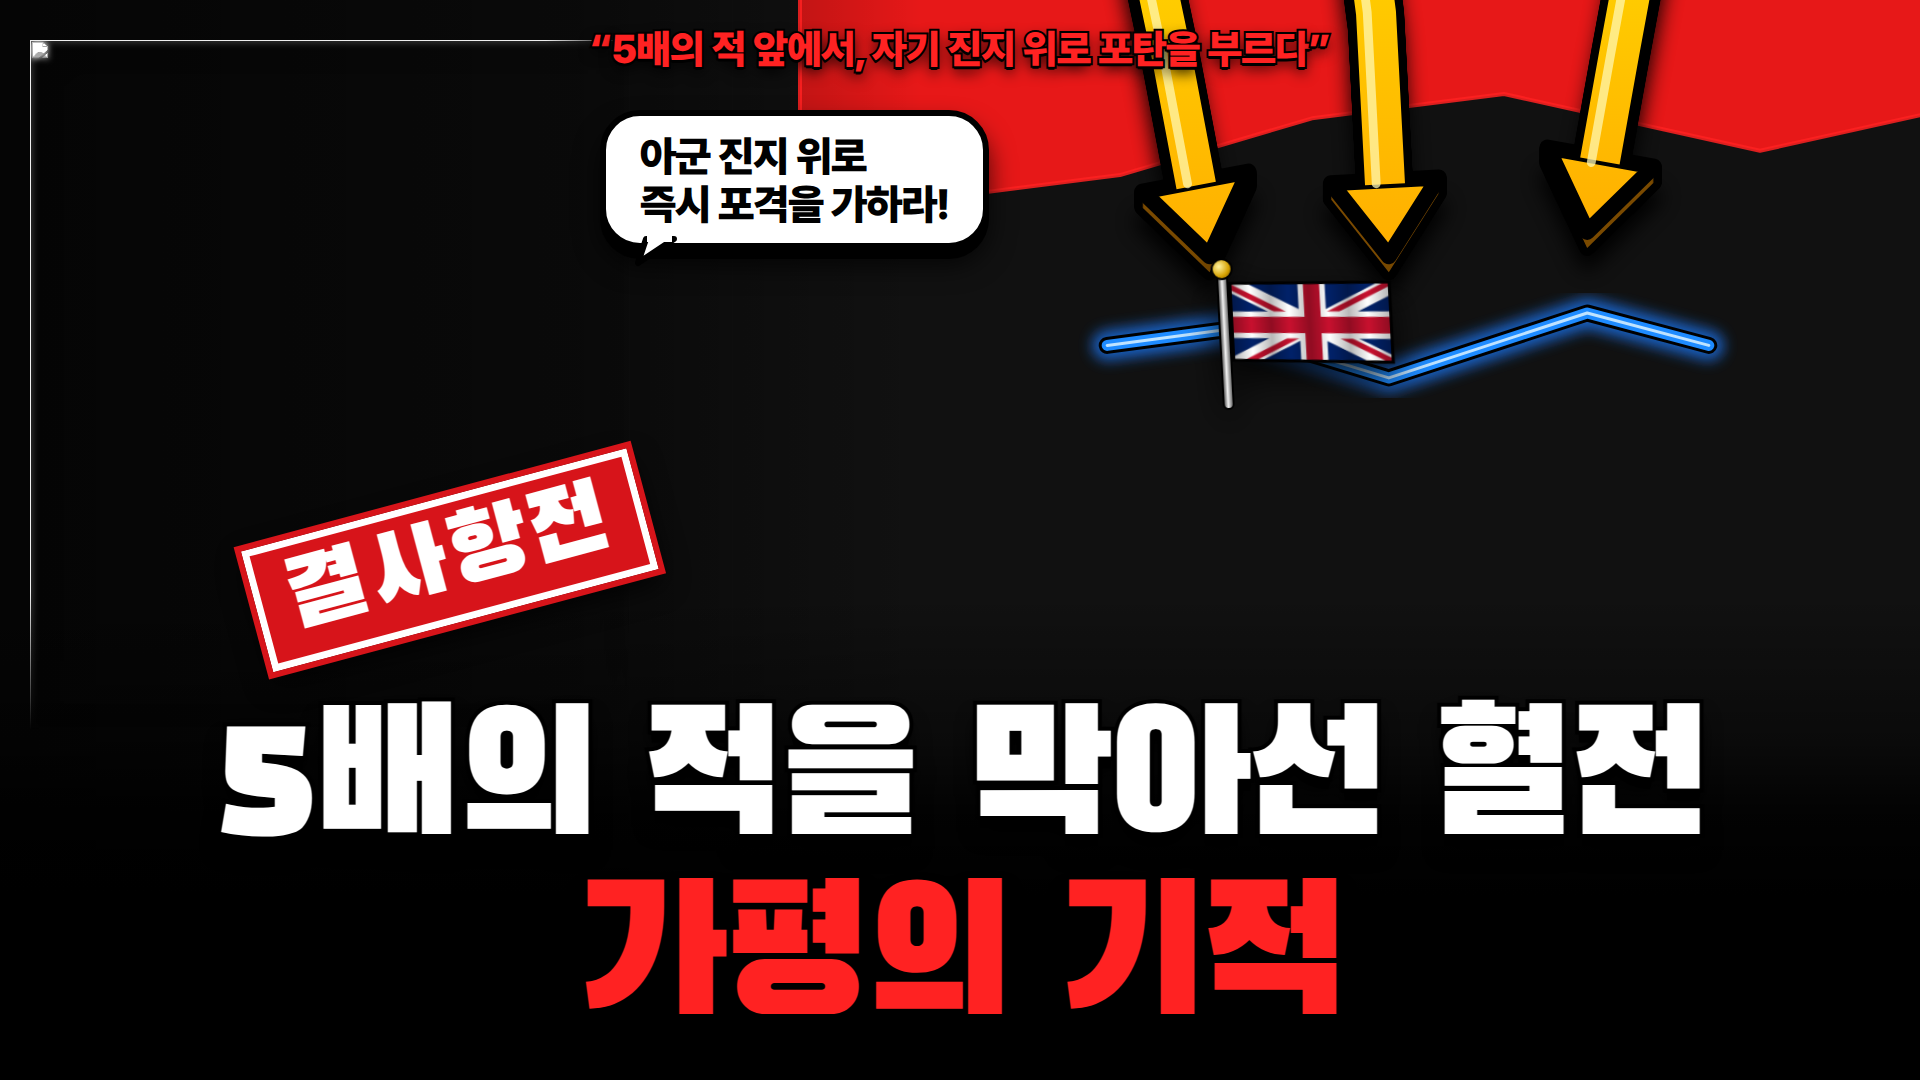
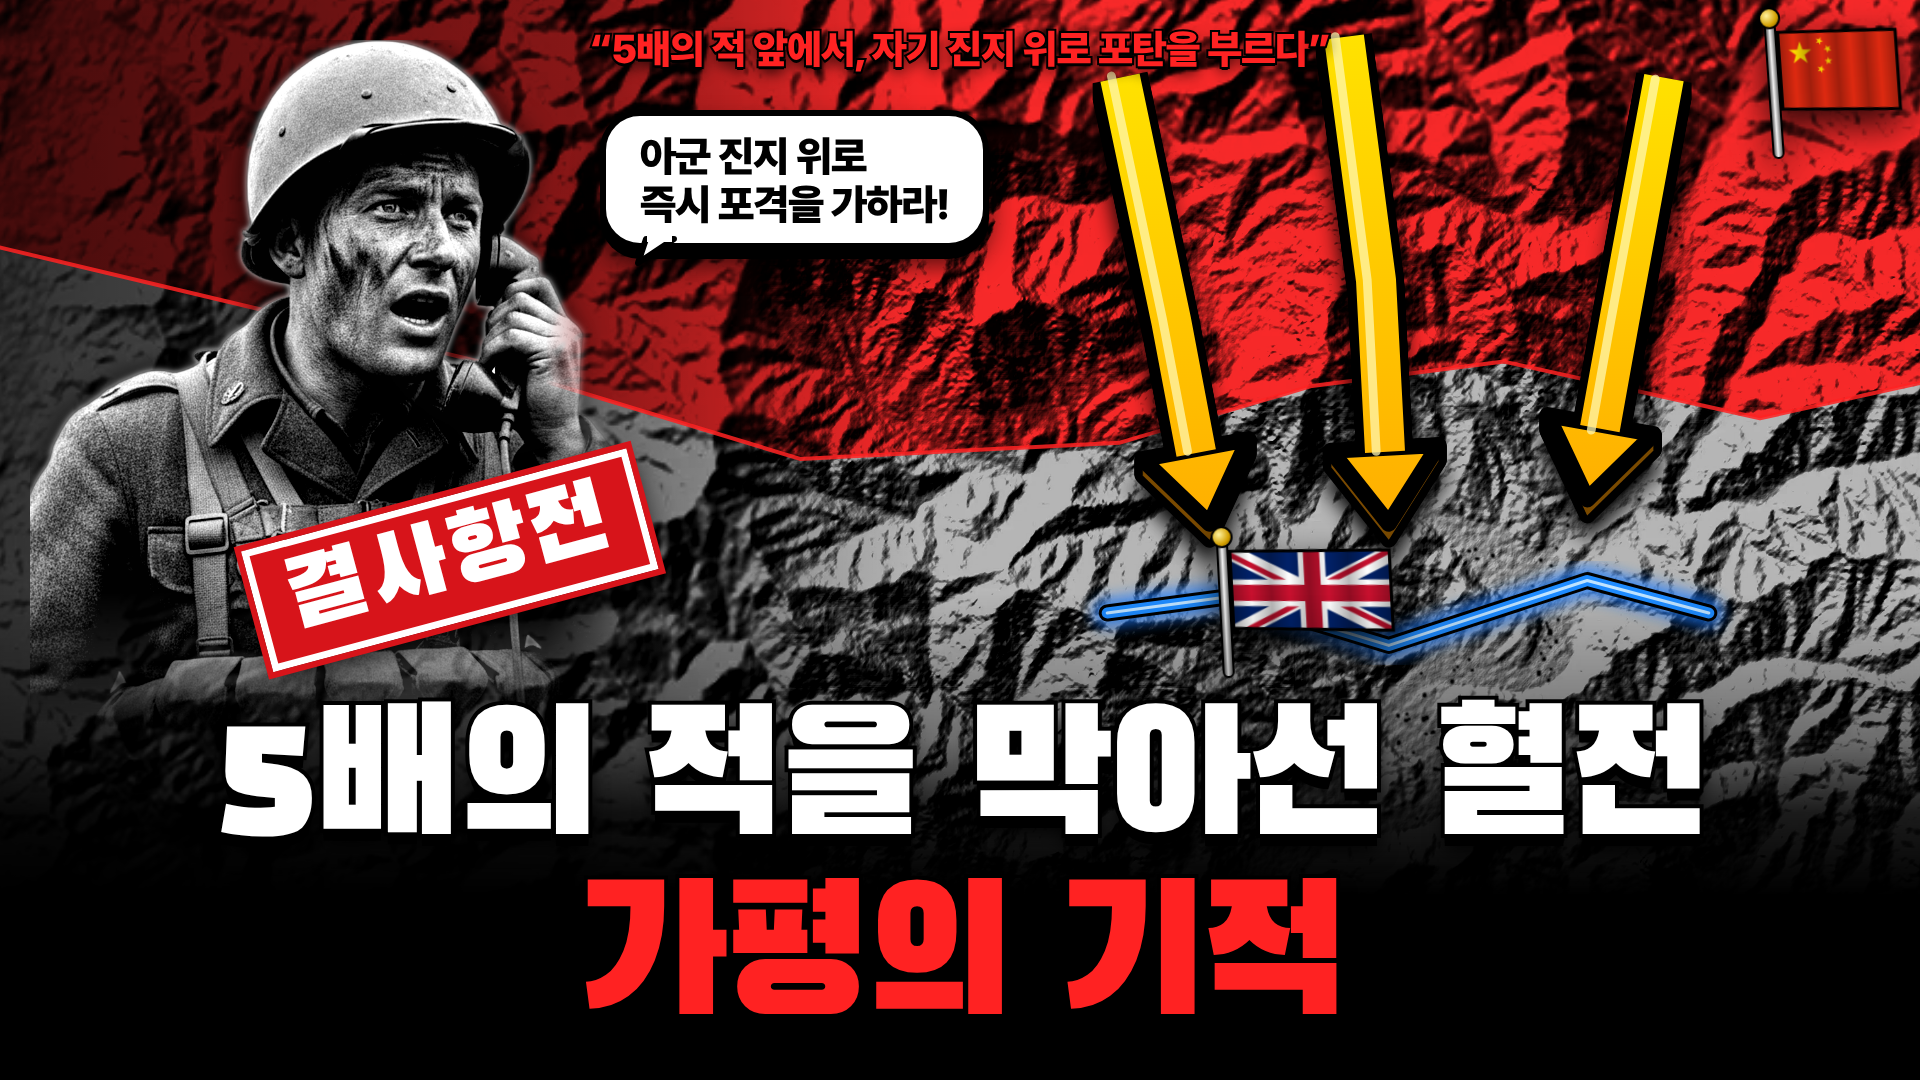
EP21 썸네일 확정(COLLAGE · 지도 위치·깃발 조정, thumbc 지형 추가) · 렌더 실측 기록
Claude-Session: https://claude.ai/code/session_01SkesRSgezbevFjjrrpjG1u

diff --git a/remotion/Thumbnail.tsx b/remotion/Thumbnail.tsx
@@ -203,15 +203,15 @@ export const COLLAGE: Record<string, CollageDef> = {
   // EP21 가평 전투 — 사용자 지시서: Line1 108px 흰색 / Line2 112px #FF2222, 말풍선·직인 지정 문구
   "ep21-gapyeong": {
     quote: "5배의 적 앞에서, 자기 진지 위로 포탄을 부르다",
-    person: { src: "ep/ep21-gapyeong/ai/thumb_cut.png", h: 690, w: 600, pos: "45% 0%" },
+    person: { src: "ep/ep21-gapyeong/ai/thumb_subject.png", h: 690, w: 600, pos: "45% 0%" },
     bubble: { text: "아군 진지 위로\n즉시 포격을 가하라!", x: 600, y: 110, tail: [0, 0], size: 42, tailStyle: "short" },
     stamp: { text: "결사항전", x: 450, y: 560, rot: -15 },
     map: {
       rasters: ["detail", "gapyeong_zoom"],
-      view: { center: [127.455, 37.86], span: 0.3 },
+      view: { center: [127.455, 37.893], span: 0.3 },
       outline: true,
       // 붉은 영역 = 가평천 북쪽 중공군 제118사단 접근 지역 (개략) / 푸른 선 = 677고지–가평천–504고지 영연방 방어선 (개략)
-      red: [[127.43, 37.9], [127.48, 37.905], [127.51, 37.912], [127.54, 37.915], [127.58, 37.908], [127.62, 37.915], [127.62, 38.0], [127.43, 38.0]],
+      red: [[127.3, 37.93], [127.38, 37.915], [127.43, 37.903], [127.48, 37.905], [127.51, 37.912], [127.54, 37.915], [127.58, 37.908], [127.62, 37.915], [127.62, 38.0], [127.3, 38.0]],
       blue: [[127.478, 37.884], [127.497, 37.886], [127.522, 37.88], [127.553, 37.888], [127.572, 37.884]],
       arrows: [
         [[127.48, 37.95], [127.488, 37.92], [127.494, 37.895]],
@@ -220,7 +220,7 @@ export const COLLAGE: Record<string, CollageDef> = {
       ],
       arrowW: 40,
       flags: [
-        { kind: "cn", at: [127.53, 37.955], h: 70, rot: -4 },
+        { kind: "cn", at: [127.583, 37.94], h: 80, rot: -4 },
         { kind: "uk", at: [127.497, 37.876], h: 80, rot: -3 },
       ],
     },

diff --git a/CLAUDE.md b/CLAUDE.md
@@ -44,7 +44,7 @@
 
 | 20 임진강(설마리) 전투 (1951) — 글로스터 대대 최후 항전 · 제1~7막 · **한국어 단일 · Minho** · 목표 20:30 | `ep20-imjin-river` | 8,909자 · 126장면 · target_sec 1230 (첫 미리보기 8,719자 = 19:59 → `s25b`·`s108b` 추가, 장면 번호 유지로 기존 TTS 재사용) | 20:25.1 · -15.2 LUFS · 1.26GB · 자막 286/286 · 싱크 ±1.0초 통과 | 없음 — 미드롤 `s37`·`s70`·`s107`. 지형 `imjin_w`(z12)·`gloster_zoom`(z14) 추가 — **z14 래스터는 뷰 span 0.1 이상**(0.06이면 2.7배 확대로 뭉개짐). 사진 15장 스카우트 핀(칸 중령·커티스 묘비·영국군 포로·설마리 전적비·75주년 추모식 등), 새 그림 47장. 썸네일 `COLLAGE["ep20-imjin-river"]` + **유니언 잭 깃발 `uk` 추가**, 인물은 AI 글로스터 베레모 병사(세션 rembg → `thumb_cut.png`) |
 
-| 21 가평 전투 (1951) — 영연방 제27여단 · 제1~7막 · **한국어 단일 · Minho · 쇼츠 제작 안 함(사용자 지시)** · 목표 20:30 | `ep21-gapyeong` | 9,017자(대본) · 122장면 · target_sec 1230 (첫 미리보기 8,789자 = 19:58 → `s25b`·`s74b`·`s115b` 추가, 장면 번호 유지) | (렌더 후 기록) | 없음 — 미드롤 `s36`·`s70`·`s104`(제3·5·7막 직전 암전). 구독 CTA 1 = 3막 끝 `cta` 장면 `s53`, 구독 CTA 2 = 7막 끝(EP22 포크찹 고지 예고 뒤). **새 기능: 장면 필드 `hudCta: {at, dur}`** → 오른쪽 위 전술 HUD 구독·좋아요 오버레이(`ui.tsx` `HudCta`, 4막 `s58` 지도 위). 지형 `gapyeong_zoom`(z14) 추가, 고지·하천 좌표는 개략. 스토리보드는 `make_board.py`가 script.md 문장을 순서대로 가져와 생성(자막 숫자 표기는 `SUBS` 표). 사진 17장 스카우트 핀 — ⚠ 핀이 빠진 사진 장면은 장면 id로 자동 검색돼 엉뚱한 사진(예: `s117` → STS-117 우주왕복선)이 들어옴. 사진 장면마다 핀 확인 필수. 계곡 규모 지도엔 손으로 그린 하천·도로 선 대신 실제 하천 데이터만 사용(어긋남 방지) |
+| 21 가평 전투 (1951) — 영연방 제27여단 · 제1~7막 · **한국어 단일 · Minho · 쇼츠 제작 안 함(사용자 지시)** · 목표 20:30 | `ep21-gapyeong` | 9,017자(대본) · 122장면 · target_sec 1230 (첫 미리보기 8,789자 = 19:58 → `s25b`·`s74b`·`s115b` 추가, 장면 번호 유지) | 20:28.1 · -15.2 LUFS · 1.27GB · 자막 260/260 · 싱크 ±1.0초 통과 | 없음 — 미드롤 `s36`·`s70`·`s104`(제3·5·7막 직전 암전). 구독 CTA 1 = 3막 끝 `cta` 장면 `s53`, 구독 CTA 2 = 7막 끝(EP22 포크찹 고지 예고 뒤). **새 기능: 장면 필드 `hudCta: {at, dur}`** → 오른쪽 위 전술 HUD 구독·좋아요 오버레이(`ui.tsx` `HudCta`, 4막 `s58` 지도 위). 지형 `gapyeong_zoom`(z14) 추가, 고지·하천 좌표는 개략. 스토리보드는 `make_board.py`가 script.md 문장을 순서대로 가져와 생성(자막 숫자 표기는 `SUBS` 표). 사진 17장 스카우트 핀 — ⚠ 핀이 빠진 사진 장면은 장면 id로 자동 검색돼 엉뚱한 사진(예: `s117` → STS-117 우주왕복선)이 들어옴. 사진 장면마다 핀 확인 필수. 썸네일 `COLLAGE["ep21-gapyeong"]` — mode=thumb의 `thumb_subject.png`가 이미 투명 누끼라 그대로 사용, 지도 `thumbc/detail`·`gapyeong_zoom`은 세션에서 `thumb_color.py`로 생성. 계곡 규모 지도엔 손으로 그린 하천·도로 선 대신 실제 하천 데이터만 사용(어긋남 방지) |
 
 → **분량 환산 (EP14·15 실측)**: 콜드 오프닝 6막 구조에서 190자 늘리면 약 25초 늘어남(약 7.6자/초) → **7,980자 = 19:20, 8,170자 = 19:45**. 19:30~20:00을 맞추려면 8,100~8,300자
 
